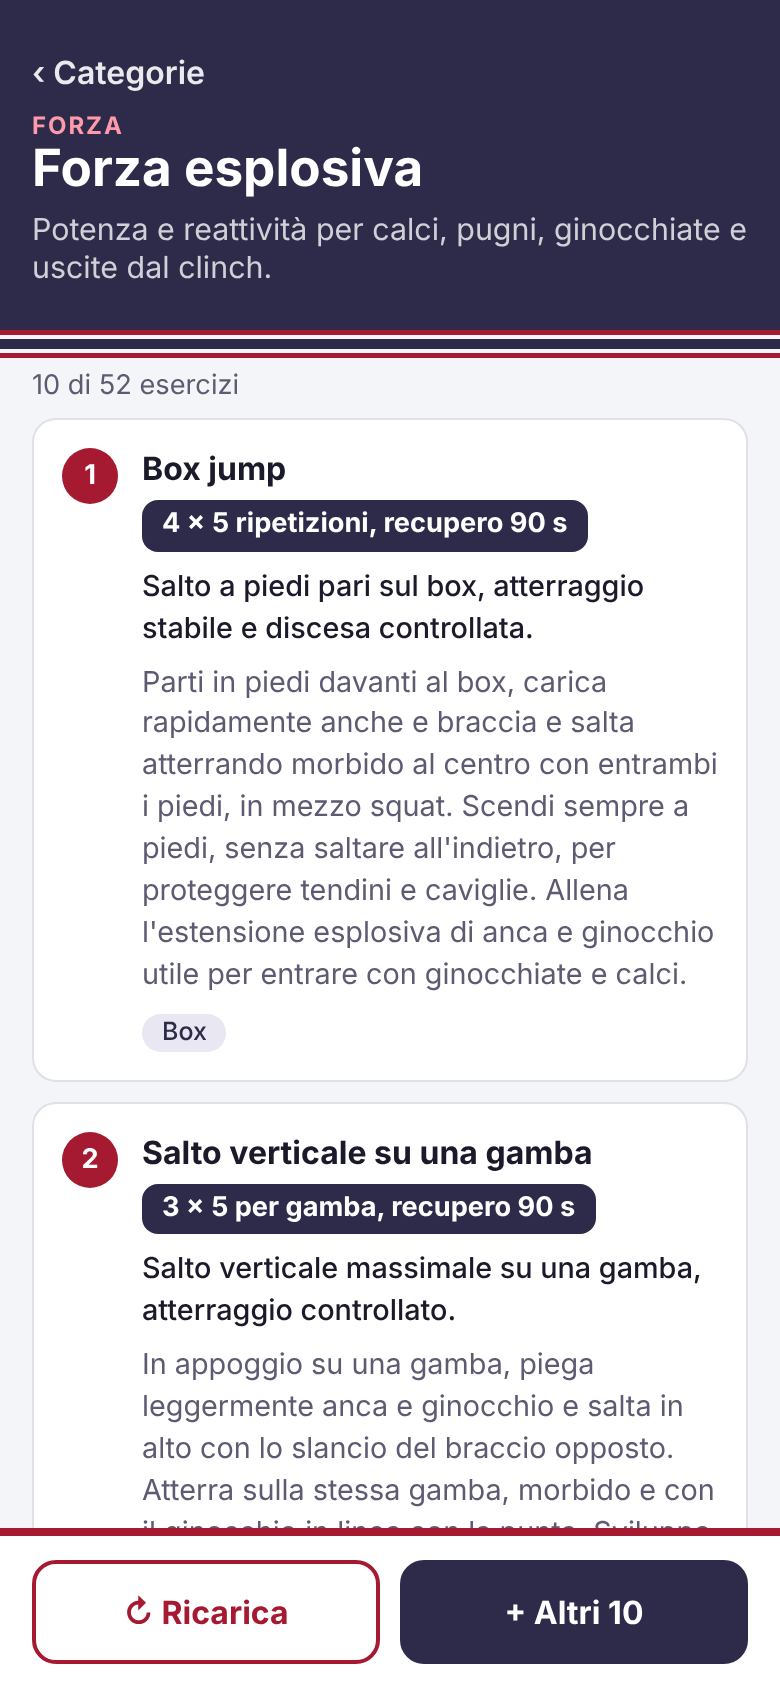
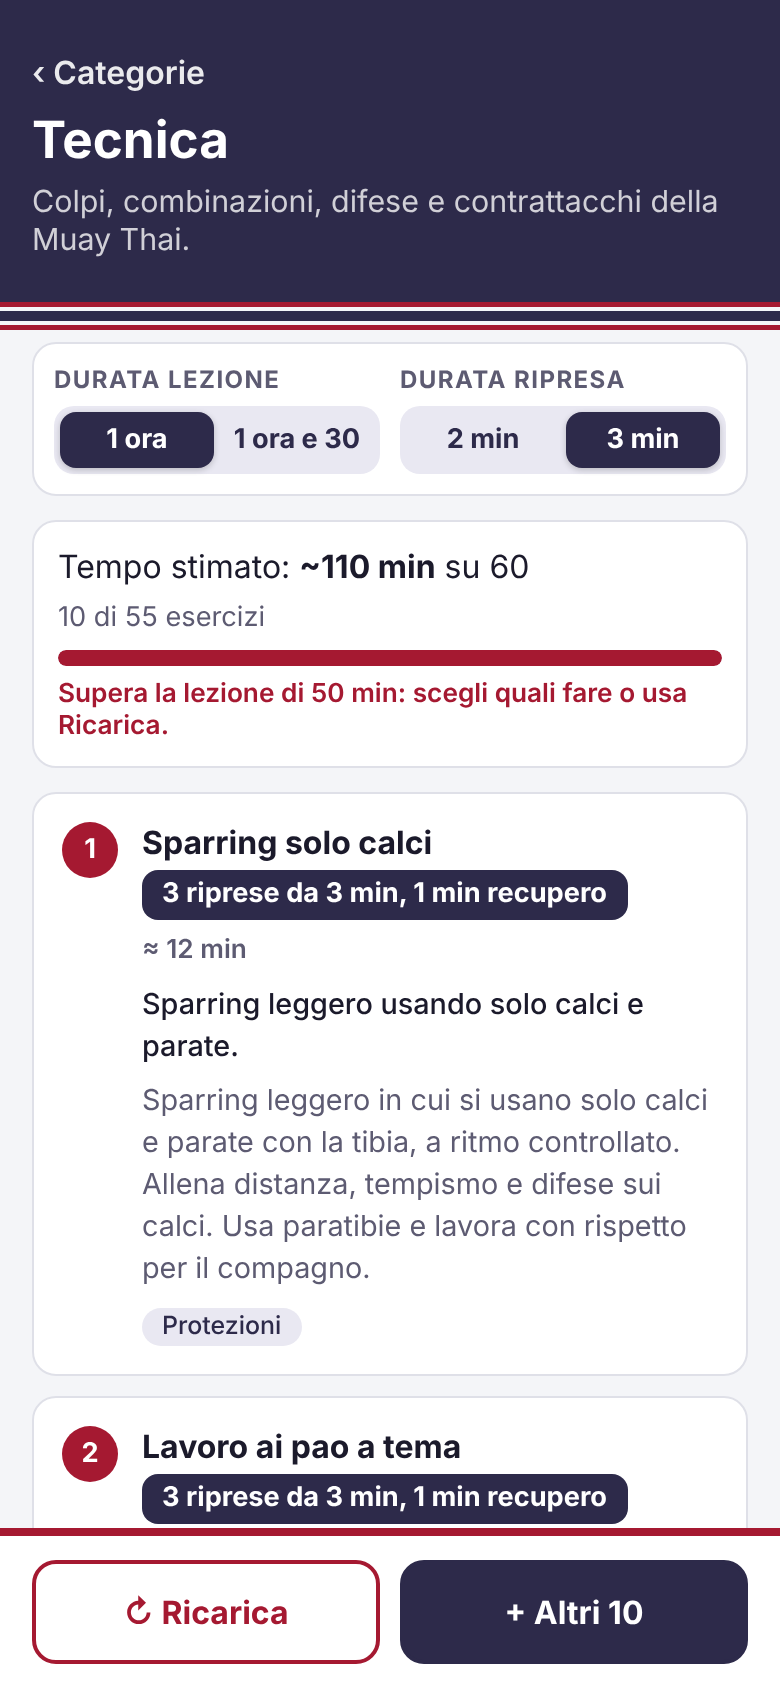
Aggiunge durata lezione e durata ripresa
Si sceglie la lezione da 60 o 90 minuti e la ripresa da 2 min (leggero)
o 3 min (agonistico), salvate in localStorage. I lavori a riprese da
2–3 min seguono la durata scelta e la lista mostra il tempo stimato
degli esercizi rispetto alla lezione.

Claude-Session: https://claude.ai/code/session_012QPPtwQeYiMv8GXfjYkKSs

Changed region(s): [[0.0, 0.0616, 1.0, 0.9242], [0.0615, 0.8318, 0.1538, 0.8934], [0.0615, 0.6469, 0.1538, 0.7085]]

diff --git a/src/App.tsx b/src/App.tsx
@@ -6,12 +6,19 @@ import {
   type CategoryId,
   type Exercise,
 } from "./data/exercises";
+import {
+  adaptDose,
+  DEFAULT_SETTINGS,
+  estimateMinutes,
+  type LessonSettings,
+} from "./lib/lesson";
 import { pickRandom, redraw } from "./lib/random";
 import { load, save } from "./lib/storage";
 
 const PAGE = 10;
 const LISTS_KEY = "muaythai:liste:v1";
 const CURRENT_KEY = "muaythai:categoria:v1";
+const SETTINGS_KEY = "muaythai:lezione:v1";
 
 /** Esercizi mostrati per ogni categoria (solo gli id, in ordine). */
 type Lists = Partial<Record<CategoryId, string[]>>;
@@ -43,7 +50,13 @@ export default function App() {
     return isCategoryId(saved) ? saved : null;
   });
 
+  const [settings, setSettings] = useState<LessonSettings>(() => ({
+    ...DEFAULT_SETTINGS,
+    ...load<Partial<LessonSettings>>(SETTINGS_KEY, {}),
+  }));
+
   useEffect(() => save(LISTS_KEY, lists), [lists]);
+  useEffect(() => save(SETTINGS_KEY, settings), [settings]);
   useEffect(() => save(CURRENT_KEY, current), [current]);
 
   const openCategory = (id: CategoryId) => {
@@ -65,13 +78,81 @@ export default function App() {
       ids={lists[category.id] ?? []}
       onChange={(ids) => setLists((prev) => ({ ...prev, [category.id]: ids }))}
       onBack={() => setCurrent(null)}
+      settings={settings}
+      onSettings={setSettings}
     />
   ) : (
-    <Home onOpen={openCategory} />
+    <Home onOpen={openCategory} settings={settings} onSettings={setSettings} />
   );
 }
 
-function Home({ onOpen }: { onOpen: (id: CategoryId) => void }) {
+function Segmented<T extends string | number>({
+  label,
+  value,
+  options,
+  onChange,
+}: {
+  label: string;
+  value: T;
+  options: { value: T; label: string; hint?: string }[];
+  onChange: (v: T) => void;
+}) {
+  return (
+    <div className="setting">
+      <span className="setting-label">{label}</span>
+      <div className="segmented" role="radiogroup" aria-label={label}>
+        {options.map((o) => (
+          <button
+            key={o.value}
+            role="radio"
+            aria-checked={o.value === value}
+            className={o.value === value ? "active" : ""}
+            onClick={() => onChange(o.value)}
+          >
+            {o.label}
+            {o.hint && <small>{o.hint}</small>}
+          </button>
+        ))}
+      </div>
+    </div>
+  );
+}
+
+function SettingsPanel({
+  settings,
+  onSettings,
+  compact = false,
+}: SettingsProps & { compact?: boolean }) {
+  return (
+    <section className={compact ? "settings compact" : "settings"}>
+      <Segmented
+        label="Durata lezione"
+        value={settings.lesson}
+        options={[
+          { value: 60, label: "1 ora" },
+          { value: 90, label: "1 ora e 30" },
+        ]}
+        onChange={(lesson) => onSettings({ ...settings, lesson })}
+      />
+      <Segmented
+        label="Durata ripresa"
+        value={settings.round}
+        options={[
+          { value: 2, label: "2 min", hint: "leggero" },
+          { value: 3, label: "3 min", hint: "agonistico" },
+        ]}
+        onChange={(round) => onSettings({ ...settings, round })}
+      />
+    </section>
+  );
+}
+
+type SettingsProps = {
+  settings: LessonSettings;
+  onSettings: (s: LessonSettings) => void;
+};
+
+function Home({ onOpen, settings, onSettings }: { onOpen: (id: CategoryId) => void } & SettingsProps) {
   const groups = useMemo(() => groupCategories(categories), []);
   return (
     <div className="page">
@@ -79,6 +160,7 @@ function Home({ onOpen }: { onOpen: (id: CategoryId) => void }) {
         <h1>Allenamento Muay Thai</h1>
         <p className="subtitle">Scegli una categoria per vedere 10 esercizi.</p>
       </header>
+      <SettingsPanel settings={settings} onSettings={onSettings} />
       <main className="home">
         {groups.map((g, i) => (
           <section key={g.title ?? `altre-${i}`} className="group">
@@ -117,16 +199,24 @@ function CategoryView({
   ids,
   onChange,
   onBack,
+  settings,
+  onSettings,
 }: {
   category: Category;
   ids: string[];
   onChange: (ids: string[]) => void;
   onBack: () => void;
-}) {
+} & SettingsProps) {
   const pool = byCategory.get(category.id) ?? [];
   const shown = ids.map((id) => byId.get(id)).filter((e): e is Exercise => !!e);
   const shownIds = new Set(shown.map((e) => e.id));
   const remaining = pool.length - shown.length;
+  const rows = shown.map((e) => {
+    const dose = adaptDose(e.dose, settings.round);
+    return { e, dose, minutes: estimateMinutes(dose) };
+  });
+  const total = rows.reduce((sum, r) => sum + r.minutes, 0);
+  const over = total - settings.lesson;
 
   const addMore = () =>
     onChange([...shown.map((e) => e.id), ...pickRandom(pool, PAGE, shownIds).map((e) => e.id)]);
@@ -149,16 +239,35 @@ function CategoryView({
       </header>
 
       <main>
-        <p className="counter">
-          {shown.length} di {pool.length} esercizi
-        </p>
+        <SettingsPanel settings={settings} onSettings={onSettings} compact />
+        <div className={`time-summary${over > 0 ? " over" : ""}`}>
+          <div className="time-text">
+            <span>
+              Tempo stimato: <strong>~{total} min</strong> su {settings.lesson}
+            </span>
+            <span className="counter">
+              {shown.length} di {pool.length} esercizi
+            </span>
+          </div>
+          <div className="time-bar" aria-hidden="true">
+            <span style={{ width: `${Math.min(100, (total / settings.lesson) * 100)}%` }} />
+          </div>
+          <p className="time-note">
+            {over > 0
+              ? `Supera la lezione di ${over} min: scegli quali fare o usa Ricarica.`
+              : `Restano circa ${-over} min per riscaldamento e defaticamento.`}
+          </p>
+        </div>
         <ol className="exercises">
-          {shown.map((e, i) => (
+          {rows.map(({ e, dose, minutes }, i) => (
             <li key={e.id} className="exercise">
               <span className="num">{i + 1}</span>
               <div>
                 <h3>{e.name}</h3>
-                <p className="dose">{e.dose}</p>
+                <p className="dose-row">
+                  <span className="dose">{dose}</span>
+                  <span className="minutes">≈ {minutes} min</span>
+                </p>
                 <p className="summary">{e.description}</p>
                 <p className="details">{e.details}</p>
                 {e.equipment && <span className="chip">{e.equipment}</span>}

diff --git a/src/lib/lesson.ts b/src/lib/lesson.ts
@@ -1,0 +1,88 @@
+// Impostazioni della lezione e stima dei tempi a partire dal dosaggio testuale.
+
+export type LessonMinutes = 60 | 90;
+export type RoundMinutes = 2 | 3;
+
+export interface LessonSettings {
+  lesson: LessonMinutes;
+  round: RoundMinutes;
+}
+
+export const DEFAULT_SETTINGS: LessonSettings = { lesson: 60, round: 3 };
+
+/** Minuti di passaggio tra un esercizio e l'altro (spiegazione, cambio attrezzi). */
+const TRANSITION_MIN = 1;
+
+/**
+ * Adatta i lavori a riprese alla durata scelta: "riprese da 2 min", "da 3 min"
+ * o "da 2–3 min" diventano "da {round} min". Riprese più corte o più lunghe
+ * (es. 1 min, 30 s, 4–5 min) sono esercizi specifici e restano come sono.
+ */
+export function adaptDose(dose: string, round: RoundMinutes): string {
+  return dose.replace(
+    /(ripres[ae] da )(2–3|2-3|2|3)( min)(?! \d)/g,
+    `$1${round}$3`,
+  );
+}
+
+const num = (s: string) => parseFloat(s.replace(",", "."));
+
+/** Prende un numero o un intervallo ("3–4") e restituisce il valore medio. */
+function amount(s: string): number {
+  const [a, b] = s.split(/[–-]/).map(num);
+  return b ? (a + b) / 2 : a;
+}
+
+const N = String.raw`(\d+(?:[.,]\d+)?(?:\s*[–-]\s*\d+(?:[.,]\d+)?)?)`;
+
+/** Recupero tra le serie in minuti, se indicato nel testo. */
+function recovery(dose: string): number | undefined {
+  const m =
+    dose.match(new RegExp(`recupero (?:di )?${N} (min|s)`)) ??
+    dose.match(new RegExp(`${N} (min|s) (?:recupero|rec\\.|tra)`));
+  if (!m) return undefined;
+  const v = amount(m[1]);
+  return m[2] === "min" ? v : v / 60;
+}
+
+/**
+ * Stima in minuti del tempo che un esercizio occupa nella lezione.
+ * È un'approssimazione: interpreta i formati più comuni del dosaggio
+ * (riprese, serie a tempo, serie a ripetizioni, distanze).
+ */
+export function estimateMinutes(text: string): number {
+  // il catalogo usa a volte spazi non separabili: si normalizzano
+  const dose = text.replace(/\s+/g, " ");
+  const sides = /per (lato|gamba|braccio|piede)|per atleta|per ruolo/.test(dose) ? 2 : 1;
+  let work: number;
+  let sets: number;
+  let rest: number;
+
+  const rounds = dose.match(new RegExp(`${N} ripres[ae] da ${N} (min|s)(?: (\\d+) s)?`));
+  const timed = dose.match(new RegExp(`${N} × ${N} (min|s)\\b`));
+  const reps = dose.match(new RegExp(`${N} × ${N}`));
+  const plainMin = dose.match(new RegExp(`^${N} min`));
+
+  if (rounds) {
+    sets = amount(rounds[1]);
+    work = amount(rounds[2]) / (rounds[3] === "s" ? 60 : 1) + (rounds[4] ? num(rounds[4]) / 60 : 0);
+    rest = recovery(dose) ?? 1;
+  } else if (timed) {
+    sets = amount(timed[1]);
+    work = amount(timed[2]) / (timed[3] === "s" ? 60 : 1);
+    rest = recovery(dose) ?? 0.5;
+  } else if (reps) {
+    sets = amount(reps[1]);
+    const r = amount(reps[2]);
+    // distanze in metri: circa 2 m al secondo; ripetizioni: circa 3 s l'una
+    work = / m\b/.test(dose) ? r / 2 / 60 : (r * 3) / 60;
+    rest = recovery(dose) ?? 1;
+  } else if (plainMin) {
+    return Math.round(amount(plainMin[1]) + TRANSITION_MIN);
+  } else {
+    return 5;
+  }
+
+  const total = sets * work * sides + Math.max(0, sets * sides - 1) * rest;
+  return Math.max(2, Math.round(total + TRANSITION_MIN));
+}

diff --git a/src/index.css b/src/index.css
@@ -138,9 +138,16 @@ button { font: inherit; color: inherit; cursor: pointer; }
 .exercise h3 { margin: 0 0 4px; font-size: 1rem; }
 .exercise > div { min-width: 0; }
 .exercise p { margin: 0; font-size: 0.9rem; line-height: 1.45; }
+.exercise .dose-row {
+  display: flex;
+  flex-wrap: wrap;
+  align-items: center;
+  gap: 6px 10px;
+  margin: 2px 0 8px;
+}
+.exercise .minutes { color: var(--muted); font-size: 0.82rem; font-weight: 600; }
 .exercise .dose {
   display: inline-block;
-  margin: 2px 0 8px;
   padding: 3px 10px;
   border-radius: 8px;
   background: var(--dose-bg);
@@ -197,3 +204,64 @@ button { font: inherit; color: inherit; cursor: pointer; }
 .btn.primary:active { background: var(--blue-dark); }
 .btn.secondary { background: transparent; color: var(--red); border-color: var(--red); }
 .btn:disabled { opacity: 0.45; cursor: default; }
+
+/* Impostazioni lezione */
+.settings {
+  display: grid;
+  grid-template-columns: repeat(auto-fit, minmax(240px, 1fr));
+  gap: 10px 16px;
+  margin: 4px 0 12px;
+  padding: 12px;
+  background: var(--surface);
+  border: 1px solid var(--border);
+  border-radius: 12px;
+}
+.setting { display: flex; flex-direction: column; gap: 6px; }
+.setting-label {
+  font-size: 0.75rem;
+  font-weight: 700;
+  text-transform: uppercase;
+  letter-spacing: 0.06em;
+  color: var(--muted);
+}
+.segmented {
+  display: flex;
+  padding: 3px;
+  gap: 3px;
+  border-radius: 10px;
+  background: var(--chip);
+}
+.segmented button {
+  flex: 1;
+  display: flex;
+  flex-direction: column;
+  align-items: center;
+  gap: 1px;
+  padding: 8px 6px;
+  border: none;
+  border-radius: 8px;
+  background: transparent;
+  color: var(--chip-text);
+  font-weight: 700;
+  font-size: 0.92rem;
+}
+.segmented button small { font-weight: 500; font-size: 0.72rem; opacity: 0.8; }
+.segmented button.active { background: var(--dose-bg); color: #fff; box-shadow: 0 1px 3px rgba(0, 0, 0, 0.2); }
+
+.time-summary {
+  margin: 0 0 12px;
+  padding: 12px;
+  border-radius: 12px;
+  background: var(--surface);
+  border: 1px solid var(--border);
+}
+.time-text { display: flex; justify-content: space-between; align-items: baseline; gap: 8px; flex-wrap: wrap; }
+.time-summary .counter { margin: 0; }
+.time-bar { height: 8px; margin: 8px 0 6px; border-radius: 999px; background: var(--chip); overflow: hidden; }
+.time-bar span { display: block; height: 100%; background: var(--dose-bg); border-radius: inherit; }
+.time-note { margin: 0; font-size: 0.82rem; color: var(--muted); }
+.time-summary.over .time-bar span { background: var(--red); }
+.time-summary.over .time-note { color: var(--red); font-weight: 600; }
+.settings.compact { grid-template-columns: 1fr 1fr; padding: 10px; gap: 10px; }
+.settings.compact .segmented button { padding: 6px 4px; font-size: 0.85rem; }
+.settings.compact .segmented button small { display: none; }

diff --git a/README.md b/README.md
@@ -9,6 +9,8 @@ App Muay Thai per strutturare gli allenamenti: scegli una categoria e ottieni es
 - Tocchi una categoria e vedi **10 esercizi a caso** (523 esercizi in 10 categorie, almeno 50 ciascuna).
 - Ogni esercizio ha il **dosaggio** (ripetizioni, serie, tempo o riprese) e una **descrizione estesa** su come eseguirlo e a cosa serve.
 - **+ Altri 10** aggiunge 10 esercizi non ancora mostrati, fino a esaurire la categoria.
+- **Durata lezione** (1 ora o 1 ora e 30) e **durata ripresa** (2 min per un allenamento leggero, 3 min per l'agonistico).
+  I lavori a riprese da 2–3 min si adattano alla durata scelta, e la lista mostra il tempo stimato rispetto alla lezione.
 - **↻ Ricarica** sostituisce la lista con 10 esercizi diversi da quelli a schermo.
 - Le liste restano salvate nel browser (localStorage): nessun database, nessun costo.
   Ogni browser/dispositivo ha le sue liste.
@@ -40,5 +42,6 @@ npm run preview   # la prova in locale
 - `src/App.tsx` – schermate (categorie e lista esercizi)
 - `src/data/exercises.ts` – catalogo esercizi (generato dal catalogo del progetto, non modificarlo a mano)
 - `src/lib/random.ts` – estrazione casuale senza ripetizioni
+- `src/lib/lesson.ts` – impostazioni lezione, adattamento delle riprese e stima dei tempi
 - `src/lib/storage.ts` – salvataggio in localStorage
 - `src/index.css` – stile e colori (rosso `#A51931`, bianco, blu `#2D2A4A`)
